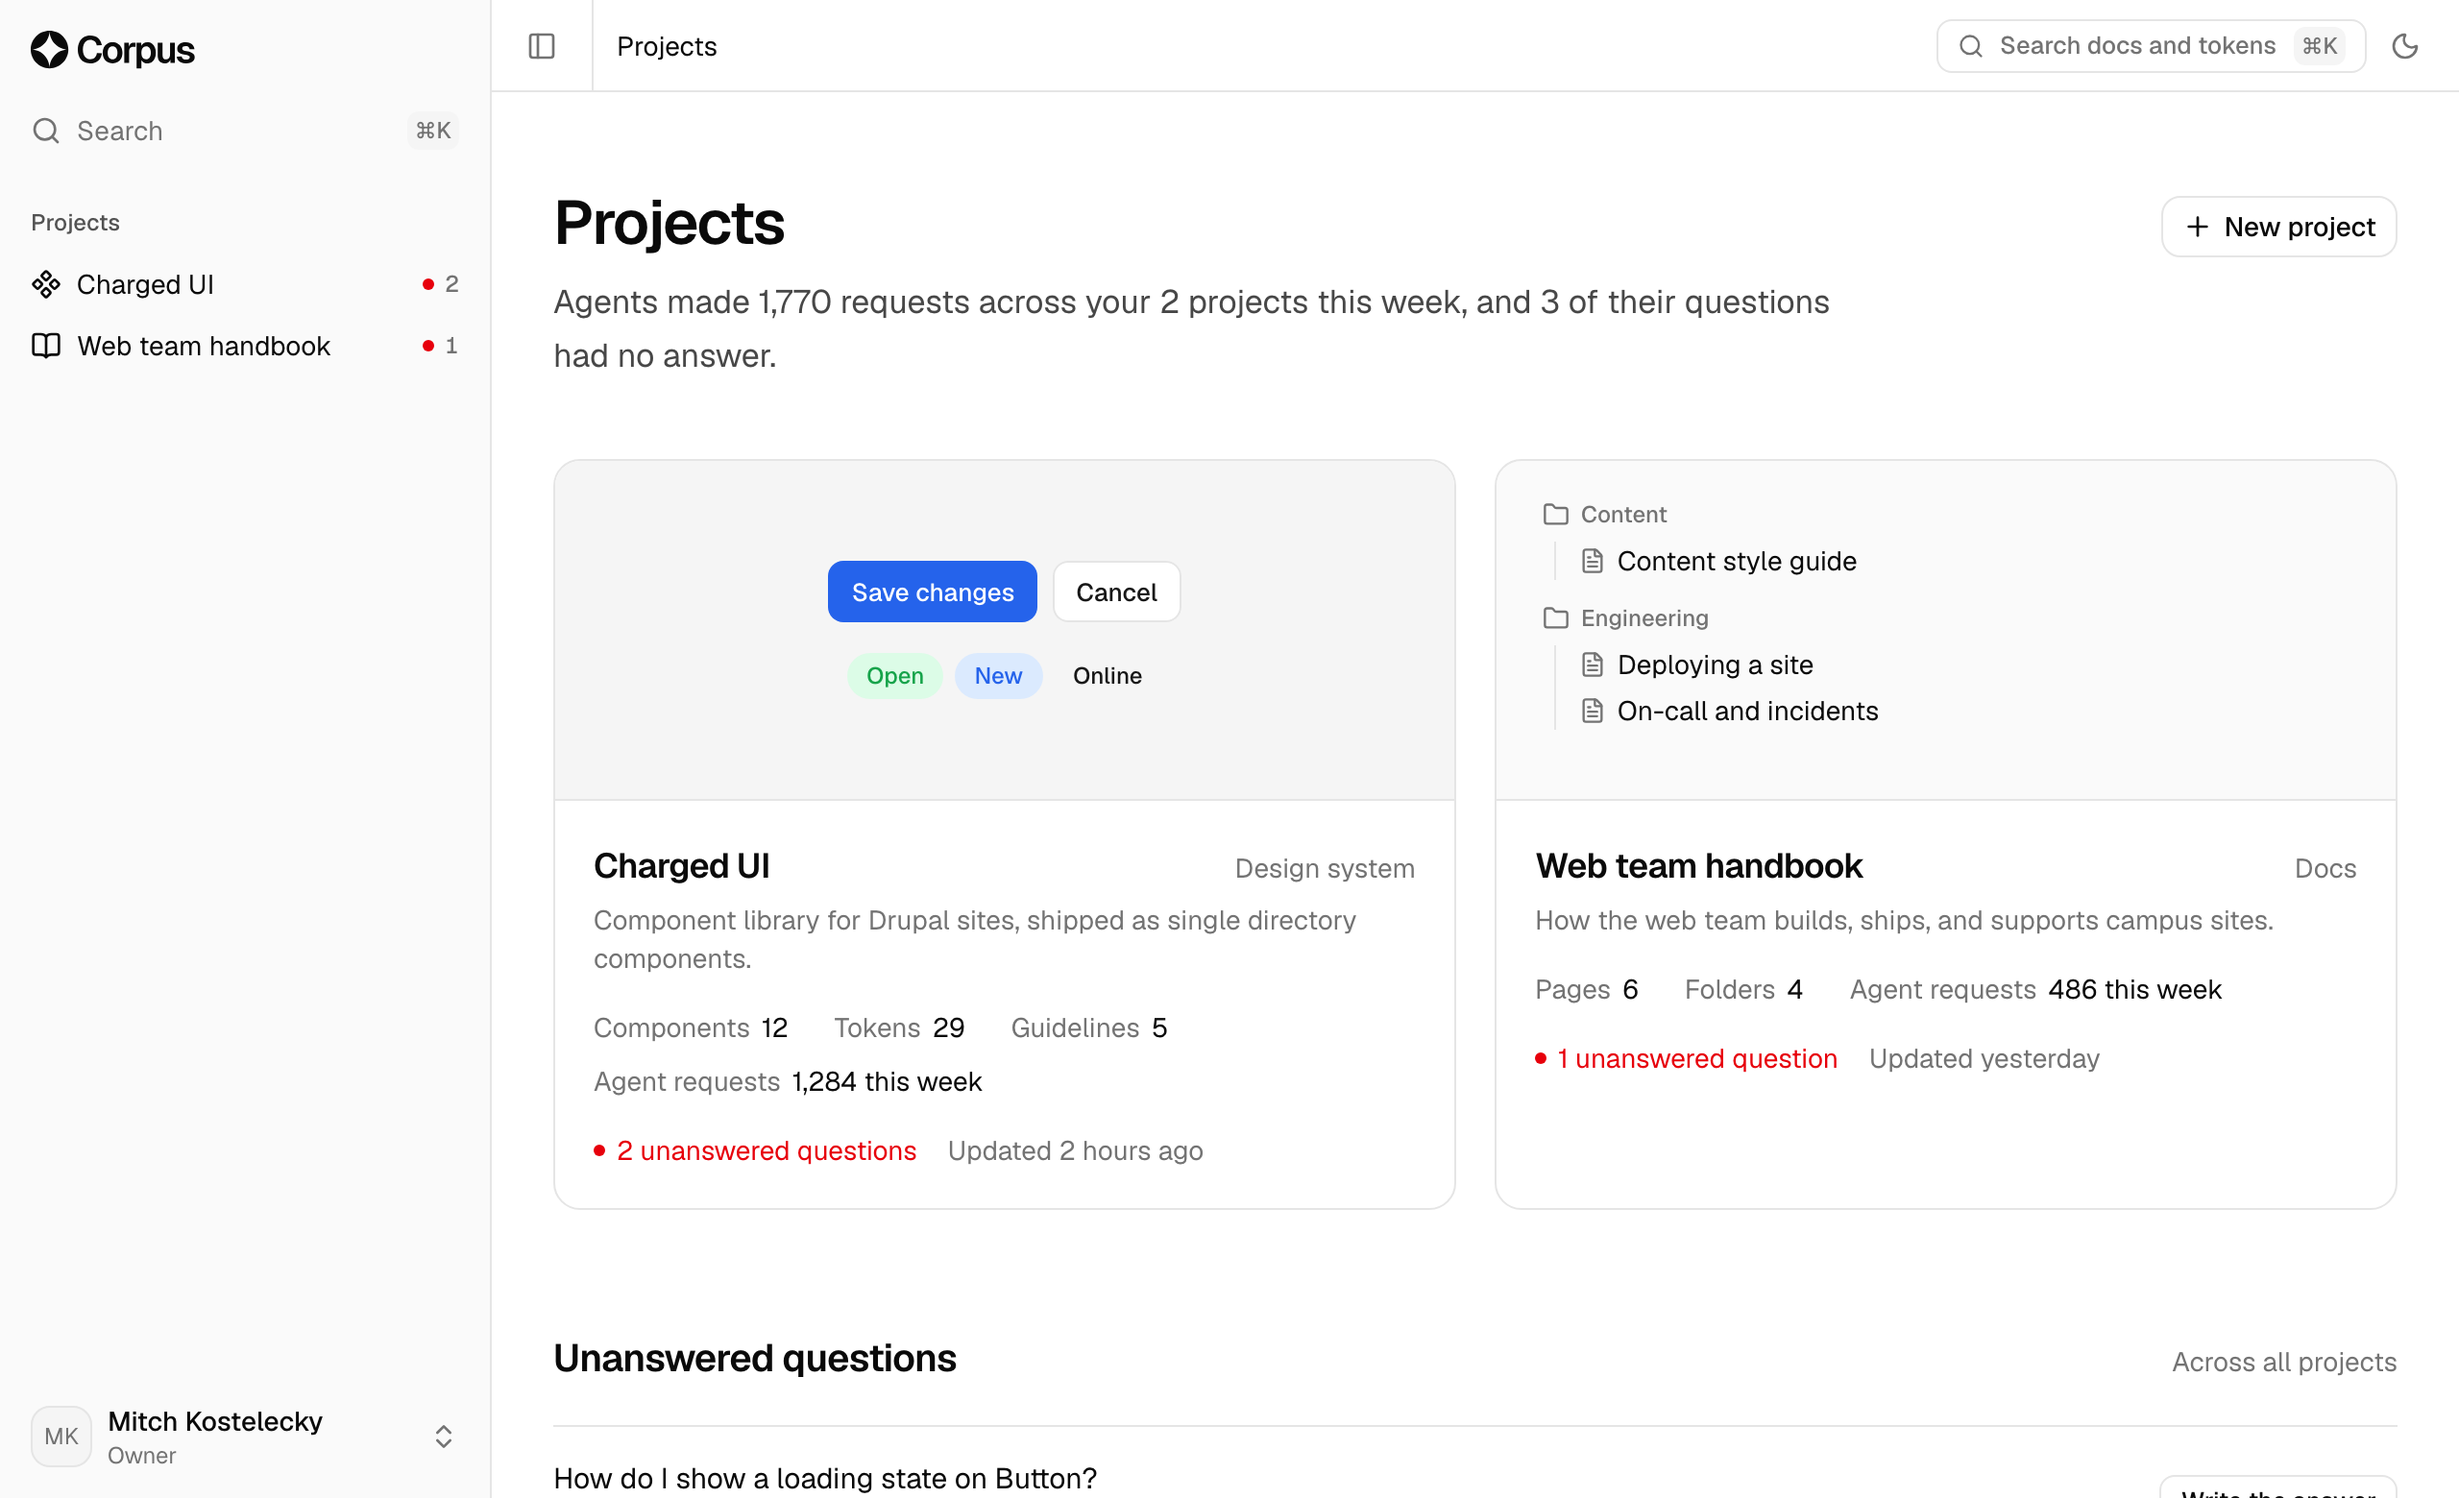
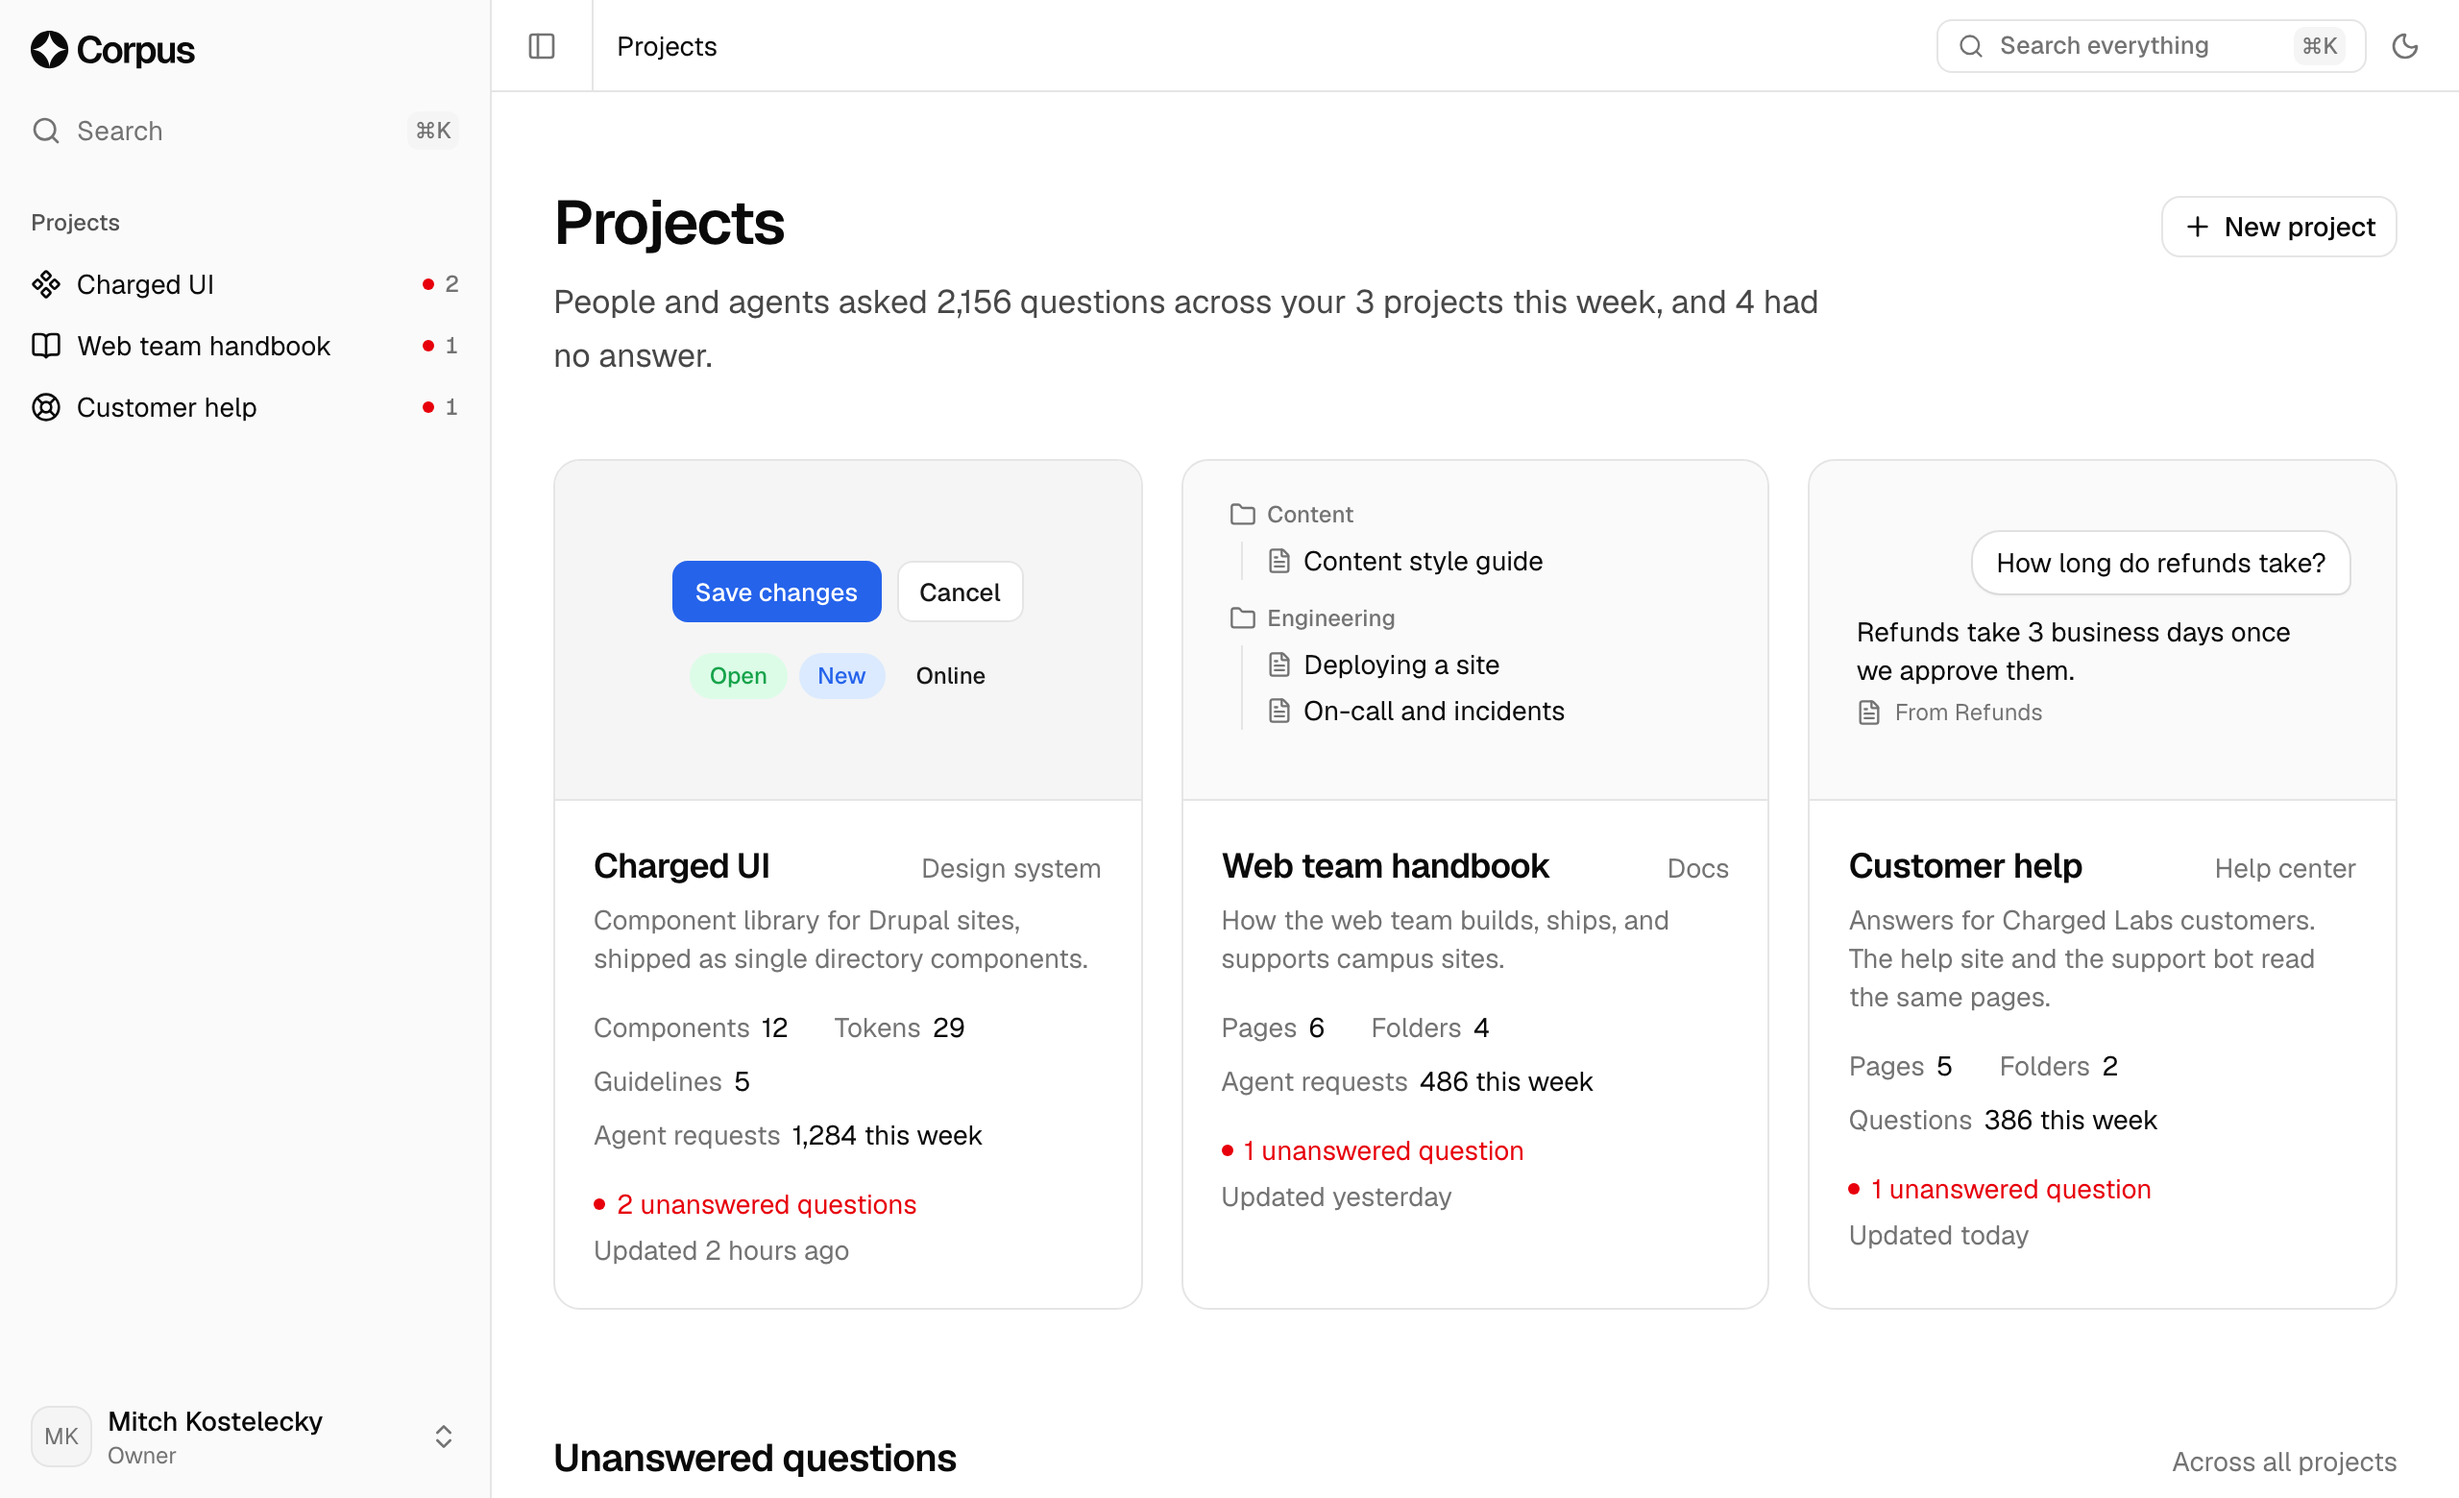
Show the help center and split view in the deck
- How it works uses the Refunds page in split view, so the problem
  slide's refund example ends with one answer every reader shares
- Traction shows three projects and lists the support bot and any-AI
  drafting as built
- Competition marks Corpus support answers as built, in the prototype
- Launch milestone names the hosted plan instead of support answers

diff --git a/deck/src/slides.tsx b/deck/src/slides.tsx
@@ -3,7 +3,7 @@ import { FACTS } from "./facts";
 import { cn } from "./lib/utils";
 import { CorpusLogo, CorpusMark, Dot, Fill, Lead, Shot, Slide, Source, Title, Todo } from "./ui";
 import coverShot from "./assets/shots/cover-notebook.png";
-import writeShot from "./assets/shots/how-write.png";
+import splitShot from "./assets/shots/how-split.png";
 import projectsShot from "./assets/shots/traction-projects.png";
 
 /* Shared pieces --------------------------------------------------------- */
@@ -305,45 +305,50 @@ function HowItWorks() {
   return (
     <Slide section="How it works">
       <Body>
-        <Title className="max-w-[1000px]">
-          Write once in the notebook. Publish it, and connect any AI in one line.
+        <Title className="max-w-[960px]">
+          Write once in the notebook. Every reader gets the same words.
         </Title>
       </Body>
-      <Shot
-        src={writeShot}
-        alt="A handbook page open for editing in Corpus, with a Rich and Markdown switch and the page tree beside it"
-        className="absolute top-[236px] left-16 h-[428px] w-[672px]"
-        imgClassName="h-full object-cover object-top-left"
-      />
-      <ol className="absolute top-[236px] right-16 bottom-14 w-[432px] divide-y border-y">
+      <ol className="absolute top-[232px] inset-x-16 grid grid-cols-3 gap-10">
         <Step n={1} head="Write">
-          Pages are plain Markdown files you own, kept in folders. Edit them as rich text or as
-          Markdown.
+          Plain Markdown files you own, in folders. Edit them as rich text or as Markdown.
         </Step>
         <Step n={2} head="Publish and connect">
-          Publish a docs site or help center. Any MCP client connects with one line:
-          <code className="mt-2.5 block rounded-lg border bg-subtle px-3 py-2 text-[12.5px] leading-[1.6] text-ink">
-            claude mcp add --transport http acme
-            <br />
-            https://docs.acme.com/mcp
-          </code>
+          A docs site or help center for people. One line connects Claude, Codex, or any MCP client.
         </Step>
         <Step n={3} head="Fill the gaps">
-          When people or agents ask something the notebook can’t answer, AI drafts the page for you
-          to review, using the model you pick.
+          Questions nobody could answer come back as AI drafts, written with the model you pick.
         </Step>
       </ol>
+      <div className="absolute inset-x-16 top-[378px] bottom-0 flex flex-col">
+        <div className="mb-3 grid grid-cols-[52.5%_1fr] px-1 text-[15px]">
+          <Dot tone="off">
+            <span className="font-medium">People</span>
+            <span className="text-muted">read the help page</span>
+          </Dot>
+          <Dot tone="good">
+            <span className="font-medium">Agents and the support bot</span>
+            <span className="text-muted">get the same words</span>
+          </Dot>
+        </div>
+        <Shot
+          src={splitShot}
+          alt="The Refunds help page in Corpus’s split view: the page as people read it beside the Markdown agents get, with the same section highlighted on both sides"
+          className="min-h-0 flex-1 rounded-b-none"
+          imgClassName="h-full object-cover object-top"
+        />
+      </div>
     </Slide>
   );
 }
 
 function Step({ n, head, children }: { n: number; head: string; children: ReactNode }) {
   return (
-    <li className="grid grid-cols-[26px_1fr] py-4">
+    <li className="grid grid-cols-[24px_1fr] border-t pt-3.5">
       <span className="text-[15px] font-medium text-faint tabular-nums">{n}</span>
       <div>
         <p className="text-[17px] font-medium">{head}</p>
-        <div className="mt-1 text-[15px] leading-[1.5] text-pretty text-muted">{children}</div>
+        <div className="mt-1 text-[14.5px] leading-[1.5] text-pretty text-muted">{children}</div>
       </div>
     </li>
   );
@@ -351,12 +356,11 @@ function Step({ n, head, children }: { n: number; head: string; children: ReactN
 
 /* 6. Competition --------------------------------------------------------- */
 
-type Has = "yes" | "part" | "planned" | "no";
+type Has = "yes" | "part" | "no";
 
 const HAS_LABEL: Record<Has, string> = {
   yes: "Yes",
   part: "Partly",
-  planned: "Planned",
   no: "No",
 };
 
@@ -372,9 +376,6 @@ function Mark({ has }: { has: Has }) {
           className="size-[11px] rounded-full border-[1.5px] border-ink"
           style={{ background: "linear-gradient(90deg, var(--color-ink) 50%, transparent 50%)" }}
         />
-      )}
-      {has === "planned" && (
-        <span className="size-[11px] rounded-full border-[1.5px] border-neutral-400" />
       )}
       {has === "no" && <span className="h-px w-2.5 bg-neutral-300" />}
       <span className="sr-only">{HAS_LABEL[has]}</span>
@@ -419,7 +420,7 @@ function Competition() {
     },
     {
       name: "Corpus",
-      has: ["yes", "yes", "planned", "yes", "yes", "yes"],
+      has: ["yes", "yes", "yes", "yes", "yes", "yes"],
       price: "$79 to $99, once",
       us: true,
     },
@@ -481,7 +482,7 @@ function Competition() {
         </table>
         <div className="absolute inset-x-0 bottom-0">
           <div className="flex gap-6 text-[13px] text-muted">
-            {(["yes", "part", "planned", "no"] as Has[]).map((h) => (
+            {(["yes", "part", "no"] as Has[]).map((h) => (
               <span key={h} className="inline-flex items-center gap-2">
                 <Mark has={h} />
                 {HAS_LABEL[h]}
@@ -493,7 +494,7 @@ function Competition() {
             Mintlify self-hosting is Enterprise only. Zendesk AI answers are $1.50 each committed or
             $2 pay as you go, and its MCP server is in early access. Obsidian is free for work; its
             AI access comes from community plugins. zeroheight caps agent access at 500 calls a
-            month. Corpus pricing is planned, and support answers aren’t built yet.
+            month. Corpus pricing is planned, and its features run in a prototype on sample data.
           </Source>
         </div>
       </Body>
@@ -606,17 +607,18 @@ function Traction() {
       tone: "good",
       label: "Built",
       items: [
-        "Notebook pages in folders, edited as rich text or Markdown",
-        "Docs and design system projects in one workspace",
-        "Every page served to AI as MCP, llms.txt, and Markdown",
-        "Unanswered questions become AI drafts to review",
+        "Notebook pages in folders, as rich text or Markdown",
+        "Handbook, help center, and design system projects",
+        "A support bot that cites its page, or says it doesn’t know",
+        "Every page served to any AI: MCP, llms.txt, Markdown",
+        "Unanswered questions become drafts from any AI provider",
       ],
     },
     { tone: "warn", label: "Next", items: ["Read a real folder of Markdown from disk"] },
     {
       tone: "off",
       label: "Not yet",
-      items: ["Support answers, hosting, and user research. This grant pays for the research."],
+      items: ["Hosting, live AI calls, and user research"],
     },
   ];
   return (
@@ -627,12 +629,12 @@ function Traction() {
           <figure>
             <Shot
               src={projectsShot}
-              alt="The Corpus projects screen: a team handbook and a design system side by side, with agent requests and unanswered questions"
+              alt="The Corpus projects screen: a design system, a team handbook, and a customer help center side by side, with questions asked and unanswered"
             />
             <figcaption className="mt-3 text-[13.5px] leading-snug text-pretty text-muted">
-              A team handbook and a design system in one workspace, with the questions agents
-              couldn’t answer. Sample data; AI, git, and MCP calls are simulated until their build
-              phases land.
+              A design system, a team handbook, and a customer help center in one workspace, with
+              the questions nobody could answer yet. Sample data; AI, git, and MCP calls are
+              simulated until their build phases land.
             </figcaption>
           </figure>
           <div className="flex flex-col">
@@ -822,7 +824,7 @@ function Milestones() {
     {
       when: "Nov 2026",
       head: "Clickable prototype",
-      body: "Notebook, docs, and design system projects on sample data, plus an 8-phase build plan.",
+      body: "Handbook, help center, and design system projects on sample data, plus a build plan.",
       done: true,
     },
     {
@@ -843,7 +845,7 @@ function Milestones() {
     {
       when: "Spring 2027",
       head: "Launch",
-      body: "Lifetime licenses on sale, support answers, and the IYA Venture Showcase.",
+      body: "Lifetime licenses on sale, a hosted plan, and the IYA Venture Showcase.",
     },
   ];
   return (
